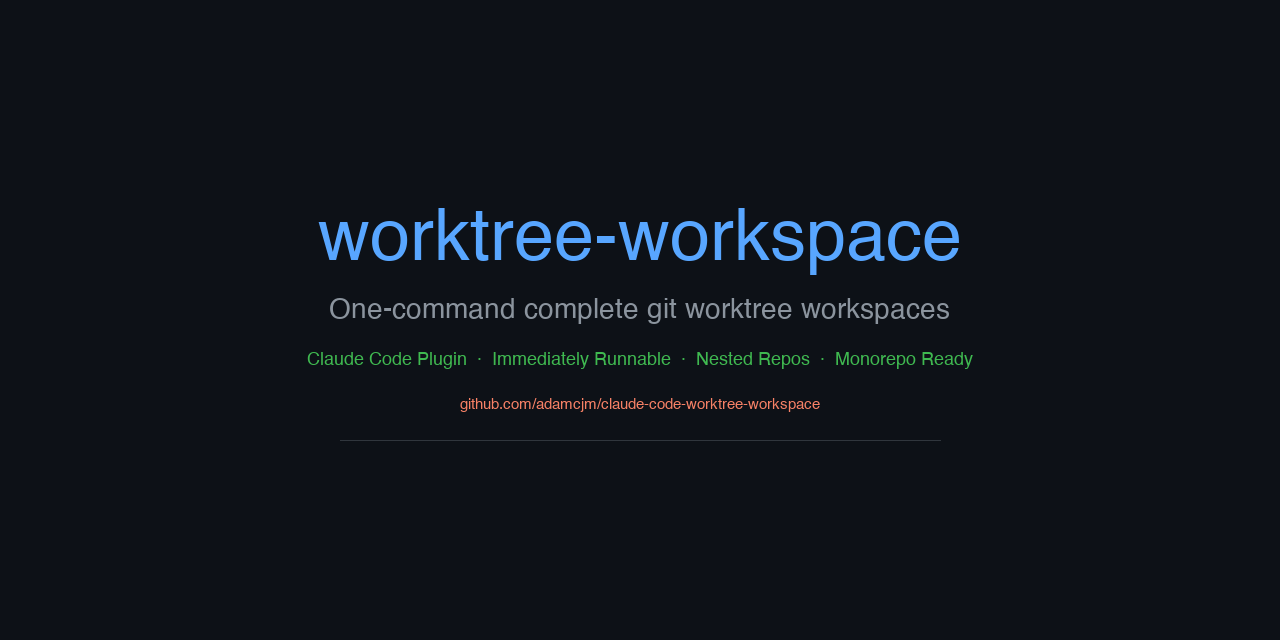
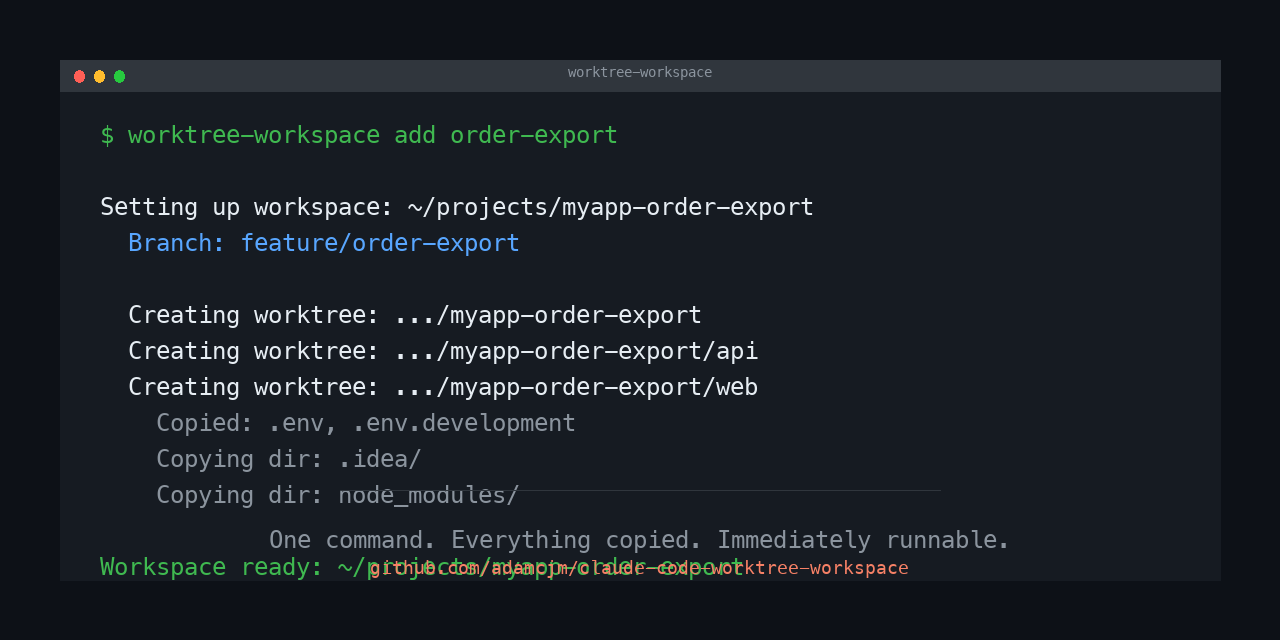
Add LICENSE, CONTRIBUTING.md, updated OG image

diff --git a/CONTRIBUTING.md b/CONTRIBUTING.md
@@ -1,0 +1,38 @@
+# Contributing to worktree-workspace
+
+Thanks for your interest in contributing. This is a small utility, so the process is lightweight.
+
+## Getting started
+
+1. Fork the repo and clone it locally.
+2. The plugin lives entirely in shell scripts — no build step, no dependencies beyond git and rsync.
+3. Scripts are in `scripts/`. Skills (the Claude Code entry points) are in `skills/`.
+
+## Testing
+
+Since this plugin manipulates git worktrees, there's no automated test suite yet. To test manually:
+
+1. Create a test directory with a git repo containing nested sub-repos and gitignored config files.
+2. Run the script directly: `bash scripts/worktree-add.sh test-feature`
+3. Verify the workspace was created correctly at `<repo>-test-feature/`.
+4. Verify nested repos have their own worktrees with the same branch.
+5. Verify gitignored config files (`.env`, etc.) and dependency dirs (`node_modules`, etc.) were copied.
+6. Run `bash scripts/worktree-remove.sh test-feature` and verify everything was cleaned up.
+
+## Code style
+
+- Shell scripts use `#!/bin/bash` with `set -euo pipefail`.
+- Use `git -C` instead of `cd` for repo-relative operations.
+- Print user-facing output to stdout, errors to stderr.
+- Keep scripts self-contained — no external dependencies beyond git and rsync.
+
+## Pull request process
+
+1. Open an issue describing what you want to change before writing code (unless it's a trivial fix).
+2. Keep PRs focused — one change per PR.
+3. Describe what you tested and how.
+4. PRs are reviewed on a best-effort basis.
+
+## Questions?
+
+Open an issue on GitHub.
